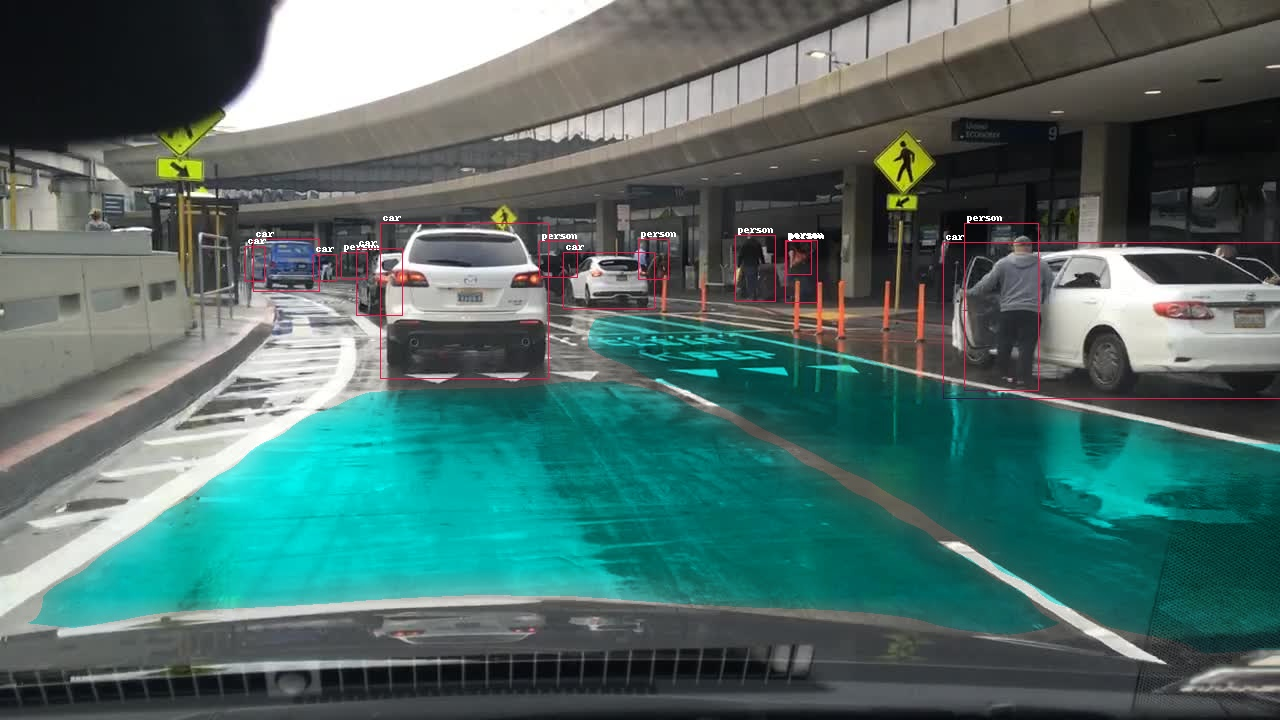
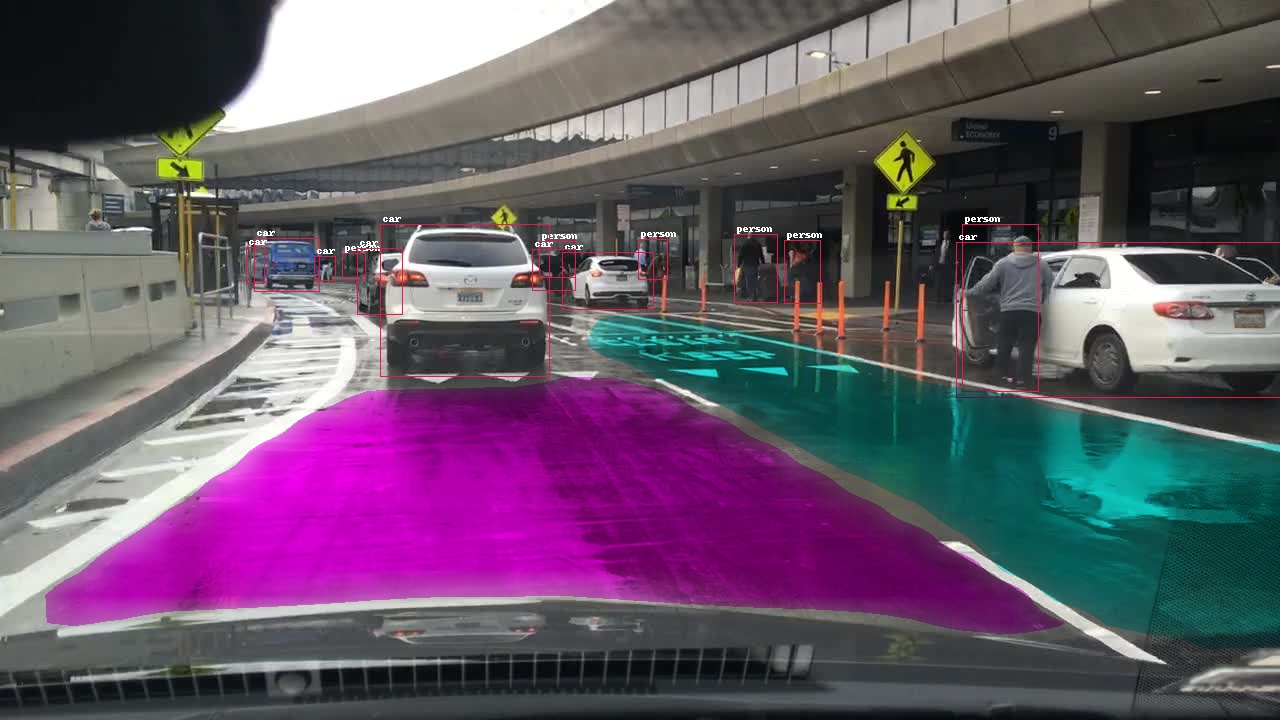
Change lanes color

diff --git a/inference.py b/inference.py
@@ -97,10 +97,10 @@ def main(args):
         cv2.namedWindow('frame',cv2.WINDOW_NORMAL)
         cv2.resizeWindow('frame', width, height)
         annotated_image = cv2.cvtColor(np.asarray(annotated_image), cv2.COLOR_RGB2BGR)
-        
+        color_channel  = [1,2]
         for idx,map in enumerate(seg_maps):           
             mask = map>0.5
-            annotated_image[...,2][mask] = annotated_image[...,2][mask]*(1.0 - map[mask])
+            annotated_image[...,color_channel[idx]][mask] = annotated_image[...,color_channel[idx]][mask]*(1.0 - map[mask])
         cv2.imwrite('save/%s_result.jpg'%filename,annotated_image)
         cv2.imshow('frame',annotated_image)
         key = cv2.waitKey(0)         
